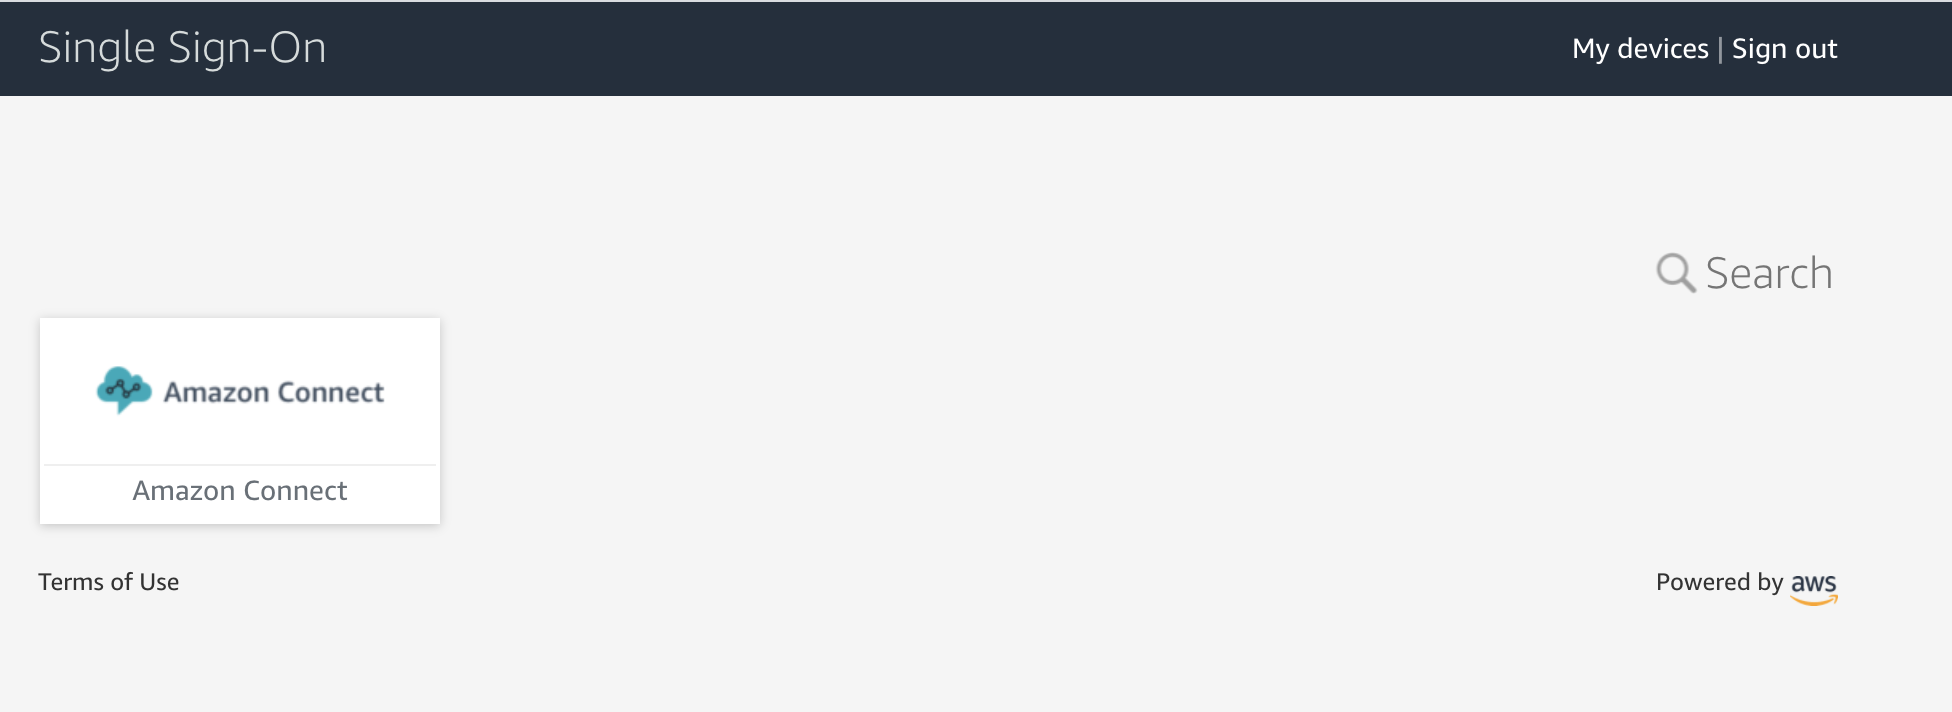
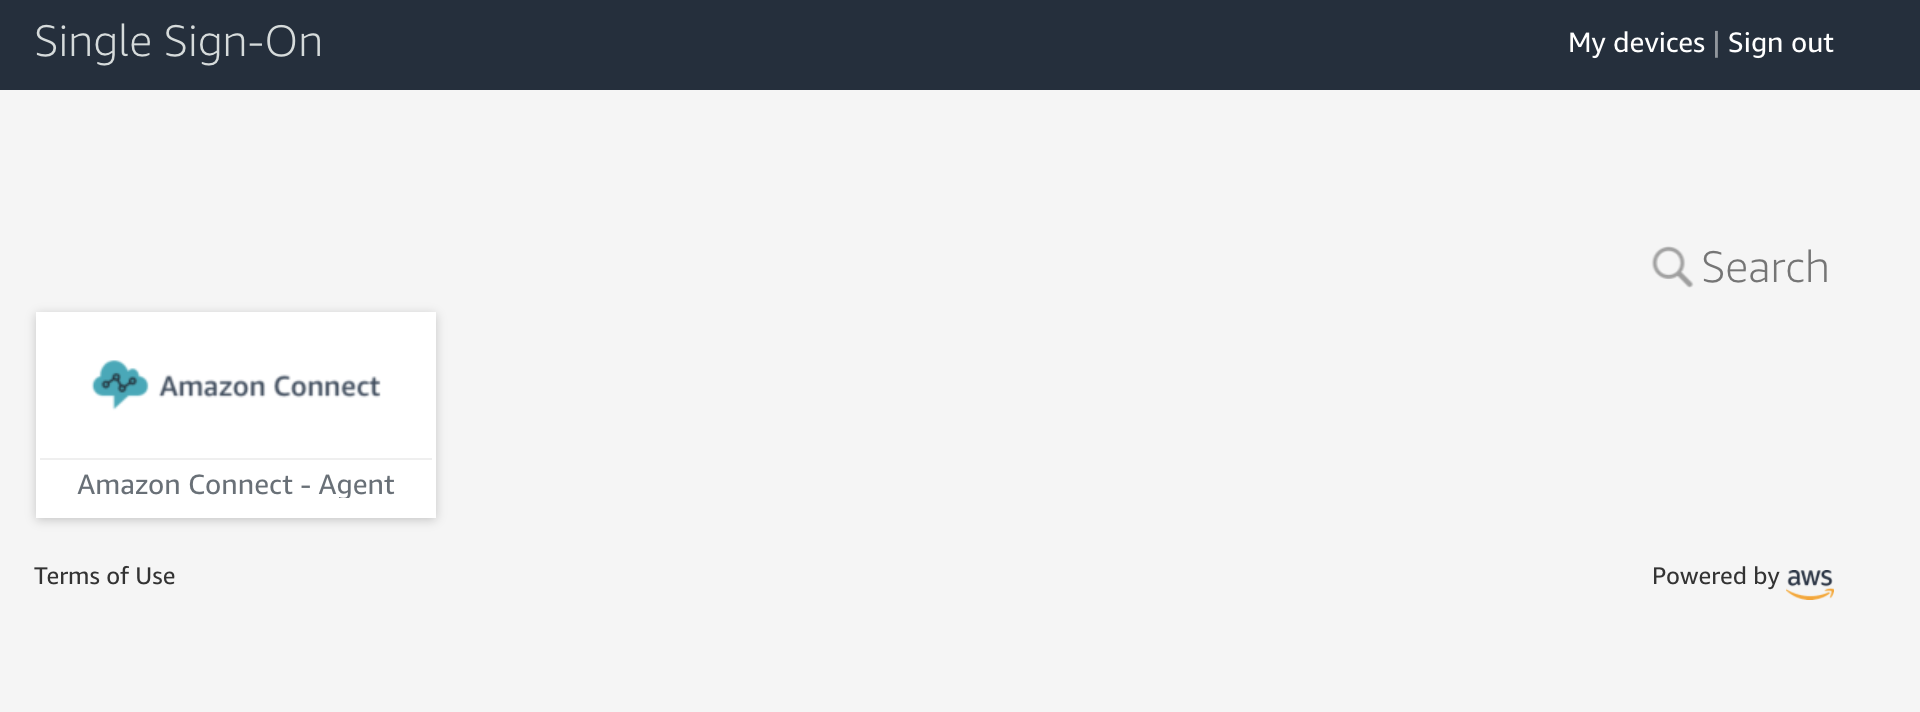
Updating SSO chapter

diff --git a/content/start_the_workshop/saml_configuration/create_first_admin.md b/content/start_the_workshop/saml_configuration/create_first_admin.md
@@ -1,0 +1,53 @@
++++
+title = "Create the first Connect Admin"
+weight = 25
++++
+
+Now that you already have the SSO Application for the admin user, let's go ahead and create the first admin user that we will be using during the workshop. Access your Amazon Connect instance using the link available in the [Amazon Connect console](https://console.aws.amazon.com/connect/home).
+
+{{% notice info %}}
+In case you're not able to login with the first user, because you have enabled the SSO, you can click in your connect instance name and use the **Emergency access** link. This will provide you admin access to your Amazon Connect instance with an Admin profile. Please note that we don't recommend you to use this link in your day-to-day operations.
+{{% /notice %}}
+
+After logging in 
+
+![ConnectUserManagement](/images/enable-aws-sso/user_management.png)
+
+In the new screen, click in **Add new users** buton in the top right corner:
+
+![AddNewUsers](/images/enable-aws-sso/add_new_users.png)
+
+There are mainly two options to create users in the Amazon Connect instance: manually and upload a template with multiple users. In our case, let's just create a single users that we will use for testing. In the *Add new users* screen, make sure that the option **Create and set up a new user.** is selected and click in **Next**.
+
+Fill the user information making sure that you are using a valid email address. Please note that the email used in this step will have to match with the email for the user provisioned in the SSO instance. 
+
+After filling the user information, select the **Routing profile** and for the security profile select **Agent**. After filling the user information, click in **Save**:
+
+![AddUserInfo](/images/enable-aws-sso/add_user_information.png)
+
+
+In the confirmation screen, click in the **Create users** button.
+
+![CreateUser](/images/enable-aws-sso/create_user.png)
+
+After creating the user in the Connect instance, it is time to provision the user in the SSO. To do so, access the [AWS SSO console](https://console.aws.amazon.com/singlesignon/home#/users) and under the *Users* menu click in the **Add User** button. Then, add information about the new user. Make sure that you are using the **same email address that you used when creating the user in the Connect instance**. After, click in the **Next: Groups** button:
+
+![CreateSsoUser](/images/enable-aws-sso/create_sso_user.png)
+
+To make our life easier, let's now create a group that will be used by all the Connect Agents. To do so, click in the **Create group** button in the top of the screen. Name your group *ConnectAgents* and click in the **Create button**. After creating the group, make sure you have it selected in the Groups screen before clicing in the **Add user** button.
+
+After creating the user and the group, you should get back to the Connect application created in the SSO and allow access to it. To do so, click in the [Applications menu](https://console.aws.amazon.com/singlesignon/home#/applications) on the SSO page and click in the *Amazon Connect* application. There, navigate to the **Assigned users** tab and click in the button **Assign users**:
+
+![AssignSsoUsers](/images/enable-aws-sso/assign_sso_users.png)
+
+Now, select the *Groups* tab, select the *ConnectAgents* group and click in the button **Assign users**:
+
+![AssignUsers](/images/enable-aws-sso/assign_users.png)
+
+By selecting the group there, it will be easier for you to add more agents in your Connect instance in the future, so you don't need to assign every individual user to the Connect application created on the AWS SSO.
+
+When creating the new user, an email will be sent to the email address used with information about the Single Sign-On instance. You will have to click in the **Accept invitation** link, to be redirected to the SSO portal. A password change will be requested and after changing the password, you will be able to login to the SSO and see the Amazon Connect application:
+
+![ConnectSsoApplication](/images/enable-aws-sso/connect_sso_application.png)
+
+When clicking in the Connect application, you will be redirected to the Connect agent interface and will be able to start receiving and answering calls.

diff --git a/content/start_the_workshop/saml_configuration/configure_the_iam.md b/content/start_the_workshop/saml_configuration/configure_the_iam.md
@@ -1,5 +1,5 @@
 +++
-title = "Configure the IAM"
+title = "Configure the IAM IdP"
 weight = 22
 +++
 
@@ -10,7 +10,7 @@ In the IAM console, in the [Identity providers](https://console.aws.amazon.com/i
 
 ![CreateIdp](/images/enable-aws-sso/create_idp.png)
 
-As the **Provider Type**, select **SAML**, give it the name of **Connect-SSO** and upload the AWS SSO metadata file that you downloaded before from the AWS SSO page:
+As the **Provider Type**, select **SAML**, give it the name of **AmazonConnectAgentAccess** and upload the AWS SSO metadata file that you downloaded before from the AWS SSO page:
 
 ![CreateIdp](/images/enable-aws-sso/iam_create_provider.png)
 
@@ -32,26 +32,26 @@ After creating the Identity Provider, it is time to create a new IAM Policy. To 
         ]
     }
 
-After updating the JSON content, click in **Review policy**. Name your policy **Connect-SSO-Policy** and click in **Create policy**.
+After updating the JSON content, click in **Review policy**. Name your policy **AmazonConnectSSOPolicy** and click in **Create policy**.
 
 Now, let's create an IAM Role that will be used by the federated users so they can access the Amazon Connect instance. You can click in [this link](https://console.aws.amazon.com/iam/home#/roles) to access the IAM Roles menu. Once in the Roles screen, click in the button **Create role**. For the Role type, in the top menu, you should select **SAML 2.0 federation** and use the following configurations:
 
-* For *SAML provider* select **Connect-SSO**
+* For *SAML provider* select **AmazonConnectAgentAccess**
 * Choose **Allow programmatic and AWS Management Console access**
 
 After picking the right configuration, click in **Permissions**:
 
 ![CreateIamRole](/images/enable-aws-sso/create_iam_role.png)
 
-In the *Attach permissions policies* menu, you should select **Connect-SSO-Policy**. You can use the search to filter for this policy. After selecting the policy, click in **Next: Tags**:
+In the *Attach permissions policies* menu, you should select **AmazonConnectSSOPolicy**. You can use the search to filter for this policy. After selecting the policy, click in **Next: Tags**:
 
 ![SelectIamPolicy](/images/enable-aws-sso/select_iam_policy.png)
 
-In the *Add tags (optional)* scree, just click in **Next: Review**. Name your role **Connect-SSO** and click in **Create role**.
+In the *Add tags (optional)* scree, just click in **Next: Review**. Name your role **AmazonConnectAgentAccessRole** and click in **Create role**.
 
 After creating your role, take note of the IAM role ARN. You use it later while configuring the AWS SSO application. For example:
 
-    arn:aws:iam::<account id without hyphen>:role/Connect-SSO
+    arn:aws:iam::<account id without hyphen>:role/AmazonConnectAgentAccessRole
 
 After creating the Identity Provider, IAM policy and IAM Role, it is time to get back to the AWS SSO an nao the attribute values.
 
@@ -66,7 +66,7 @@ Get back to the [AWS SSO console](https://console.aws.amazon.com/singlesignon/ho
 
 The *Value* field will be similar to:
 
-    arn:aws:iam::123456789012:role/Connect-SSO,arn:aws:iam::123456789012:saml-provider/Connect-SSO
+    arn:aws:iam::123456789012:role/AmazonConnectAgentAccessRole,arn:aws:iam::123456789012:saml-provider/AmazonConnectAgentAccess
 
 After adding the new attribute, click in **Save changes**:
 

diff --git a/content/start_the_workshop/saml_configuration/configure_aws_sso_for_admins.md b/content/start_the_workshop/saml_configuration/configure_aws_sso_for_admins.md
@@ -1,0 +1,43 @@
++++
+title = "Configure the AWS SSO for Admins"
+weight = 24
++++
+
+After creating a SSO application that will be used by your agents, it is time to create another application that will provide access to the Connect admin console. We will be repeating the previous steps with a couple of changes.
+
+Start by acessing the [AWS SSO applications page](https://console.aws.amazon.com/singlesignon/home#/applications) and adding a new application. Click in the **Add application** button, select *Amazon Connect* and click in the **Add application** buton again.
+
+Name this application **Amazon Connect - Admin**, download the metadata file available in the *AWS SSO Metadata* section and in the **Relay state** field you should add the following URL:
+
+    https://<region-id>.console.aws.amazon.com/connect/federate/<instance-id>
+
+Note that this URL is different from the previous one, where it provides access to the Amazon Connect administrator dashboard instead of redirecting the users to the softfone interface. Make sure you are replacing the *\<region-id\>* and the *\<intance-id\>* with your information.
+
+After downloading the metadata file and changing the **Relay state** URL field, click in **Save changes**.
+
+Now, access the [AWS IAM console](https://console.aws.amazon.com/iam/home), click in **Identity providers** on the left menu and create a new provider by clicking in the **Create provider** button.
+
+For the provider type, select **SAML**, name it **AmazonConnectAdminAccess**, upload the most recent metadata file and click in **Next step**:
+
+![CreateIdp](/images/enable-aws-sso/iam_create_admin_provider.png)
+
+After validating the information, click in **Create**.
+
+Now, access the [AWS IAM Roles](https://console.aws.amazon.com/iam/home#/roles) page and click in the button **Create role** to create the role that will be used by the new SSO application. In this screen, select **SAML 2.0 federation** as the Role type and make sure you select the **AmazonConnectAdminAccess** SAML provider. Select **Allow programmatic and AWS Management Console access** and click in the **Next Permissions** button:
+
+![CreateIAMAdminRole](/images/enable-aws-sso/create_iam_admin_role.png)
+
+In the following screen, select the **AmazonConnectSSOPolicy** policy and click in **Next tags**. On the tags screen, click in **Next review**. 
+
+Name your role **AmazonConnectAdminAccessRole** and click in **Create role**.
+
+After creating the IAM Role, access the [AWS SSO applications page](https://console.aws.amazon.com/singlesignon/home#/applications) and click in the **Amazon Connect - Admin** application. In the application page, select the **Attribute mappings** tab and create a new attribute with the following content:
+
+    Attribute: https://aws.amazon.com/SAML/Attributes/Role
+    Value: <IAM role ARN>,<IAM identity provider ARN>
+
+The Value field will be similar to:
+
+    arn:aws:iam::123456789012:role/AmazonConnectAdminAccessRole,arn:aws:iam::123456789012:saml-provider/AmazonConnectAdminAccess
+
+After changing this information, click in the **Save changes** button.

diff --git a/content/start_the_workshop/saml_configuration/configure_aws_sso_for_agents.md b/content/start_the_workshop/saml_configuration/configure_aws_sso_for_agents.md
@@ -1,5 +1,5 @@
 +++
-title = "Configure AWS SSO"
+title = "Configure the AWS SSO for Agents"
 weight = 21
 +++
 
@@ -26,11 +26,15 @@ Let's now add the Amazon Connect integration. To do so, you should click in **Ap
 
 ![AddNewApplication](/images/enable-aws-sso/add_new_application.png)
 
+{{% notice info %}}
+Note that you can leverage AWS SSO to handle the authentication for multiple applications. When implementing Amazon Connect, it is a best practice that you create two different applications: one for your Connect agents and another one for the Amazon Connect instance administrators. During this workshop, we will demonstrate how to provision the application that will be used by the connect agents.
+{{% /notice %}}
+
 In the search box, type **Amazon Connect**. It will find the *Amazon Connect* app. You can then click in the application logo and then in the **Add application** button to move to the application configuration page:
 
 ![AmazonConnectApp](/images/enable-aws-sso/amazon_connect_app.png)
 
-In this page, make sure that you download the **AWS SSO SAML metadata file**. You will find a download link just in the **AWS SSO Metadata** section. After downloading the metadata file, go ahead and change the **Relay state** field under **Application Properties**. In this box, please insert the following, making sure that you replace the data with the right AWS region and your Amazon Connect instance ID:
+In this page, name your application **Amazon Connect - Agent** and make sure that you download the **AWS SSO SAML metadata file**. You will find a download link just in the **AWS SSO Metadata** section. After downloading the metadata file, go ahead and change the **Relay state** field under **Application Properties**. In this box, please insert the following, making sure that you replace the data with the right AWS region and your Amazon Connect instance ID:
 
     https://\<region-id>.console.aws.amazon.com/connect/federate/\<instance-id>?destination=%2Fconnect%2Fccp
 
@@ -47,7 +51,7 @@ That being said, since I am running the worshop in *us-east-1*, the URL I'll add
       https://us-east-1.console.aws.amazon.com/connect/federate/9690dd9b-3de7-4097-b4d9-67829f7c8fur?destination=%2Fconnect%2Fccp
 
 
-After downloading the certificate and changing the **Relay state** URL fiel, keep all the rest as default and click in **Save changes**:
+After downloading the metadata file and changing the **Relay state** URL field, keep all the rest as default and click in **Save changes**:
 
-![AmazonConnectApp](/images/enable-aws-sso/amazon_connect_app.png)
+![RelayStateUrl](/images/enable-aws-sso/relay_state_url.png)
 

diff --git a/content/start_the_workshop/saml_configuration/create_first_agent.md b/content/start_the_workshop/saml_configuration/create_first_agent.md
@@ -1,9 +1,9 @@
 +++
-title = "Create Connect Users"
+title = "Create the first Connect Agent"
 weight = 23
 +++
 
-After configuring the SSO, it is time to go ahead and create some users. With the SSO setup, users are created and defined in the Connect instance but all the password management will happen through the SSO. Let's then create a new user and see how this integration looks like.
+After configuring the SSO, it is time to go ahead and create the firt Amazon Connect agent. With the SSO setup, users are created and defined in the Connect instance but all the password management will happen through the SSO. Let's then create a new user and see how this integration looks like.
 
 The first step here is to access your Amazon Connect instance with your administrator account (that we created in the previous lab) and create a new user. To do so, visit the [Amazon Connect console](https://console.aws.amazon.com/connect/home) and click in the *Access URL*. You will be taken to the Amazon Connect management portal. In this dashboard, click in the *User management* menu in the left side:
 

diff --git a/content/call_routing/setup_contact_routing.md b/content/call_routing/setup_contact_routing.md
@@ -10,11 +10,7 @@ In this module we are going to setup Contact Routing in Amazon Connect. Amazon C
 - Service
 - Parts
 
-Open the AWS Console and type Connect in the Find Services search box. Select the Amazon Connect Service.
-
-![SetupRouting](/images/setup-contact-routing/open-console.png)
-
-Select the Instance Access URL to bring up the Amazon Connect Login URL.
+Start by accessing the [Amazon Connect console](https://console.aws.amazon.com/connect/home). In the service console, select the Instance Access URL to bring up the Amazon Connect Login URL.
 
 ![SetupRouting](/images/setup-contact-routing/instance-login-url.png)
 
